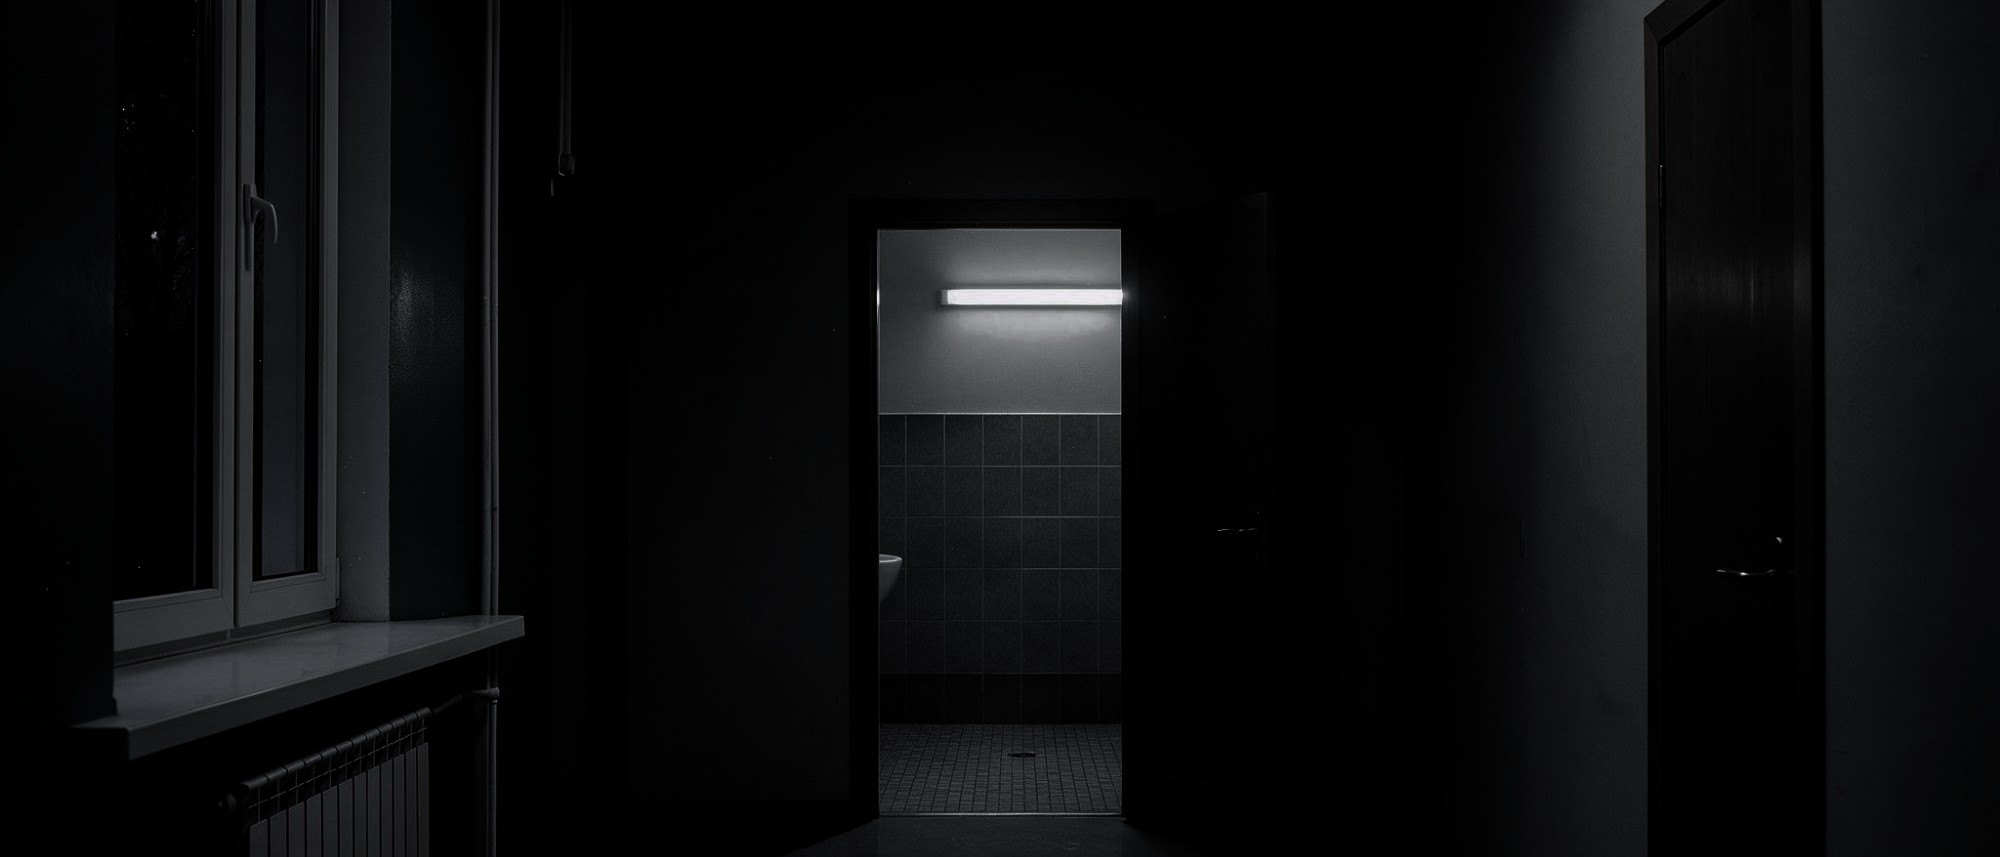
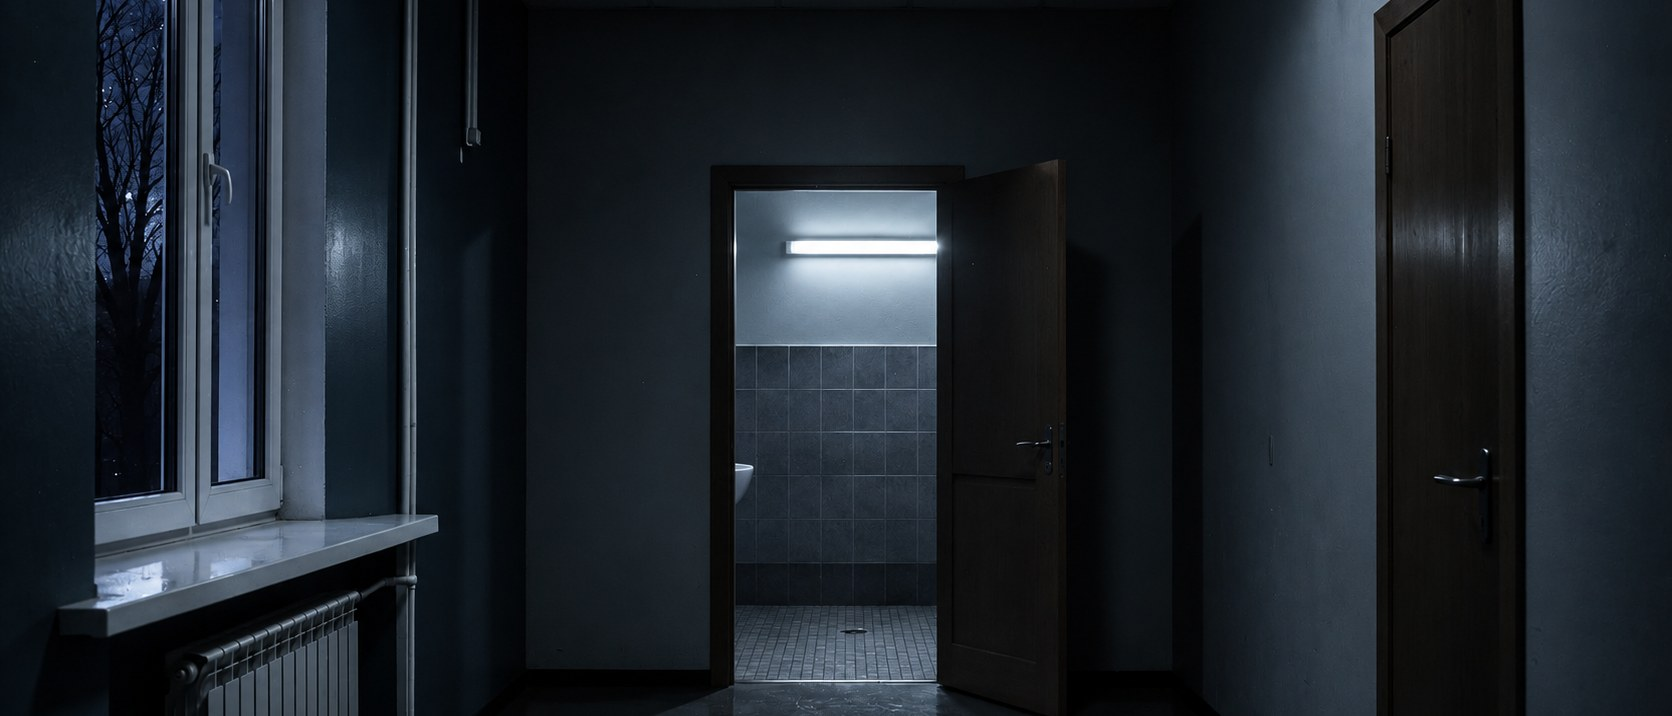
BORI colour page: variant E now uses the ChatGPT-graded corridor and door (Kuanysh's choice)

diff --git a/public/bori/cvet/index.html b/public/bori/cvet/index.html
@@ -97,12 +97,11 @@
 
 
   <section class="var" id="E">
-    <h2><span>E</span>СТАЛЬ КУАНЫША</h2>
+    <h2><span>E</span>ВЫБОР КУАНЫША</h2>
     <div class="sub">Цвет, который выбрали режиссёр и сценарист по кадру с ногами (25.09). Почти монохром: холодная сталь с едва заметной синевой, без зелёного, чёрные задавлены, свет только на лампе и мокрых бликах.</div>
     <div class="grid"><img src="img/E-etalon-nogi.jpg" alt=""><img src="img/E-koridor.jpg" alt=""><img src="img/E-dver.jpg" alt=""></div>
-    <div class="grid" style="margin-top:12px"><img src="img/E-volk.jpg" alt=""></div>
-    <div class="sw"><div style="background:#070809;color:#889">тень</div><div style="background:#373a3f;color:#cde">средний</div><div style="background:#9b9fa6;color:#233">свет</div><div style="background:#e0b83c;color:#332">глаза</div></div>
-    <div class="note">Первый кадр — эталон, остальные покрашены под него. Средняя яркость эталона 11 %, половина кадра темнее 4 %: это самый тёмный вариант из всех, локации придётся освещать лампой и бликами, а не заливкой.</div>
+        <div class="sw"><div style="background:#070809;color:#889">тень</div><div style="background:#373a3f;color:#cde">средний</div><div style="background:#9b9fa6;color:#233">свет</div><div style="background:#e0b83c;color:#332">глаза</div></div>
+    <div class="note">Первый кадр — эталон Куаныша, коридор и дверь покрашены под него. Тени глубокие, свет только от ламп и мокрых бликов, зелёного нет.</div>
   </section>
 
   <div class="foot">Taurus Asia Production · Neyra Vision Studio · AI-превиз — Colibri Studio · 23.09.2026</div>
